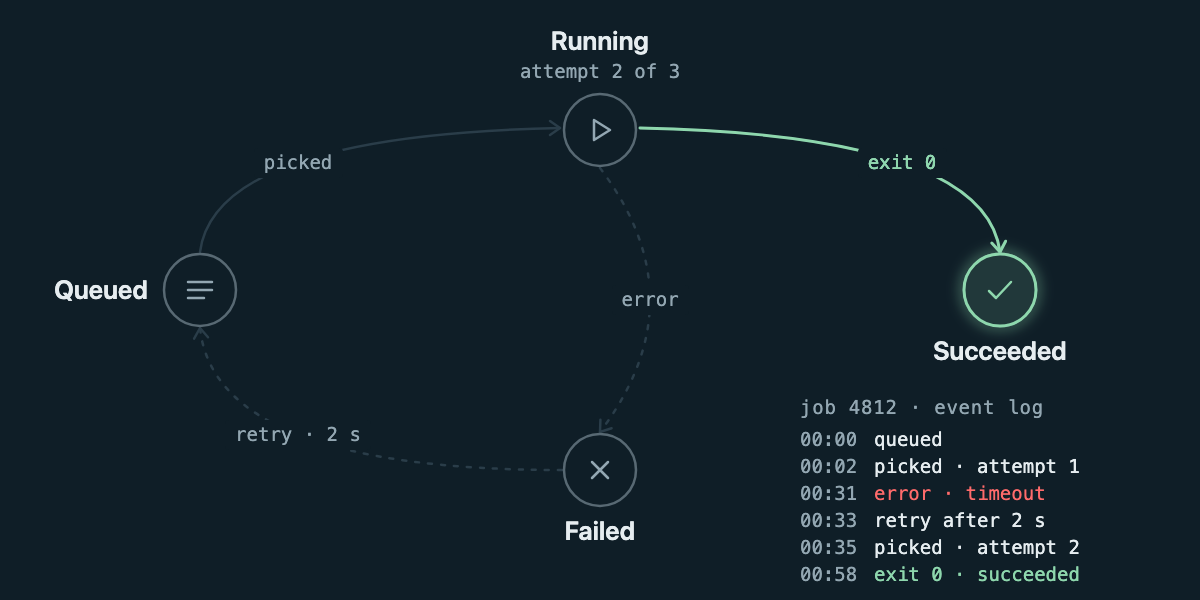
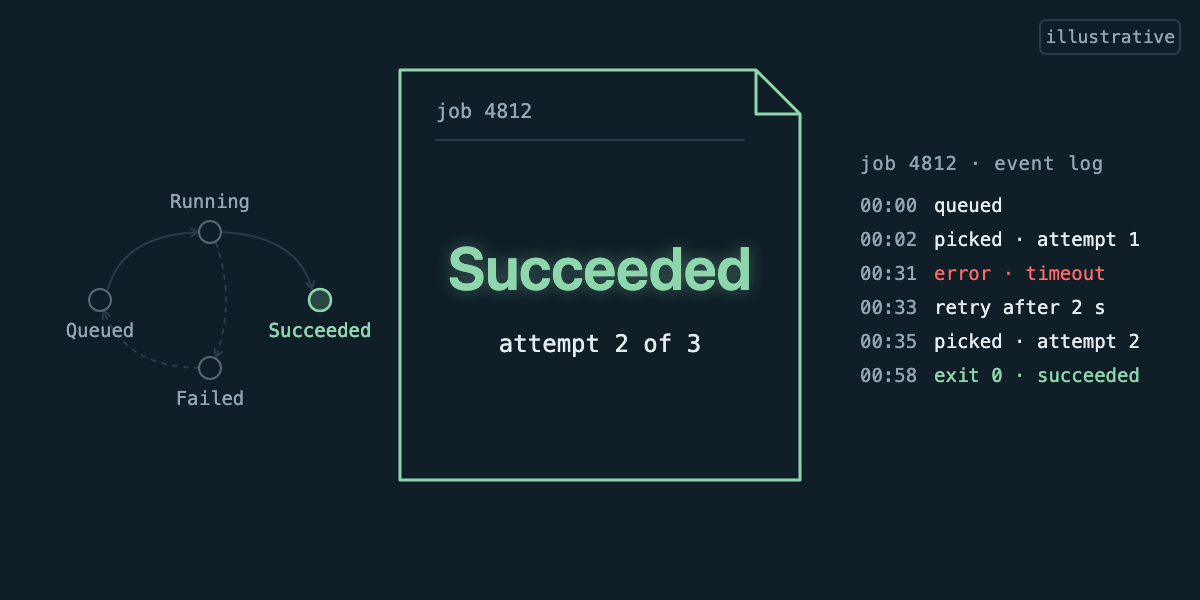
Pool: job-states reworked to switch (one job ticket changes state in place, no travelling token)

diff --git a/pool/job-states/job-states.html b/pool/job-states/job-states.html
@@ -1,9 +1,31 @@
-<!-- job-states: states archetype, hand-tuned from pool/job-states/spec.yaml (scaffold, then rebuilt for layout and story).
-  Plays once, 9.8 s pass: queued > running (attempt 1) > failed > retry > queued > running (attempt 2) > succeeded
-  | one token per hop, event log fills in | final state from 8.7 s
-  Names, numbers and times are illustrative examples. -->
+<!-- job-states (pool, verb switch, archetype states drawn as one job ticket, domain software). Hand-built; lean style, references/style.md.
+  Story: one job changes state: it is queued, picked, fails with a timeout, waits out a 2 s backoff
+  and succeeds on the second attempt. The job does not go anywhere; it changes condition in place.
+  Hero: one job ticket in the centre (a sheet with a folded corner, an id line, a status word and
+  an attempt counter). At each event its outline and status word switch: Queued (dashed, muted),
+  Running (solid, accent), Failed (solid, danger), Queued again for the backoff (dashed, with a thin
+  timer arc that draws on once next to "retry · 2 s"), Running with the counter stepping from
+  "attempt 1 of 3" to "attempt 2 of 3", Succeeded (solid, ok, the one glow on the word). The
+  failure (1.0 s) and the success (1.1 s) are the two slowest, clearest switches.
+  Support: a small state map on the left (the same four state names, thin arcs, no token) on which
+  only the current state is lit, 100 ms after the ticket; the event log on the right gains one line
+  100 to 150 ms after the change it records.
+  Verb: switch. Technique: stacked copies (outline + status word per state) cross-faded with
+  opacity, one full-pass track each; timer arc by stroke-dashoffset draw-on (pathLength 100,
+  linear because it tracks time); counter as two stacked texts cross-faded.
+  Once pass 9.8 s: set 0-0.5; picked 1.0-1.5; error 2.3-3.3; retry 4.0-4.5 and backoff timer (in 4.45-4.7, draws
+  4.6-5.5, out 5.5-5.65); picked again 5.8-6.3 and counter 6.35-6.7; exit 0 7.3-8.4; log lines after each; hold
+  8.8-9.8. Phases 0.7, 2.0, 3.8, 5.7, 7.1, 8.8.
+  Colours: accent = running (the active state); danger = failed; ok = succeeded (exit 0). No other.
+  Facts:
+  - State names Queued, Running, Failed, Succeeded; transitions picked, error, retry · 2 s, exit 0;
+    "attempt 1 of 3" / "attempt 2 of 3"; job 4812; log times 00:00, 00:02, 00:31, 00:33, 00:35,
+    00:58 and log texts: kept verbatim from the previous version of this entry, all ILLUSTRATIVE
+    (a generic job queue with retry and backoff), shown with the "illustrative" tag.
+  - 2 s backoff = 00:35 - 00:33: consistent with the log (arithmetic on the illustrative values).
+  - Timer arc length and timings: drawing, not data. -->
 <style>
-.anim-job-states {
+.anim-job-states{
   --anim-bg:       var(--anim-theme-bg,       #0F1E27);
   --anim-panel:    var(--anim-theme-panel,    #0D1820);
   --anim-line:     var(--anim-theme-line,     #2A3D49);
@@ -16,130 +38,150 @@
   --anim-danger:   var(--anim-theme-danger,   #FF6B6B);
   --anim-font:     var(--anim-theme-font,     system-ui, sans-serif);
   --anim-mono:     var(--anim-theme-mono,     ui-monospace, monospace);
-  display: block; width: 100%; height: 100%;
+  display:block;width:100%;height:100%
 }
-.anim-job-states svg{display:block;width:100%;height:100%}
-/* lean style (references/style.md): states are rings with a line glyph and the label outside,
-   transitions are thin arcs with the label sitting on the arc, the job is a glowing dot,
-   the event log is plain mono lines with no panel */
-.anim-job-states .job-states-c-acc{--job-states-k:var(--anim-accent)}
-.anim-job-states .job-states-c-ok{--job-states-k:var(--anim-ok)}
-.anim-job-states .job-states-c-bad{--job-states-k:var(--anim-danger)}
-.anim-job-states .job-states-lbl{font-family:var(--anim-font);font-size:26px;font-weight:600;fill:var(--anim-fg)}
-.anim-job-states .job-states-sub{font-family:var(--anim-mono);font-size:19px;fill:var(--anim-muted)}
-.anim-job-states .job-states-albl{font-family:var(--anim-mono);font-size:19px;fill:var(--anim-muted)}
-.anim-job-states .job-states-albl-on{fill:var(--job-states-k)}
-.anim-job-states .job-states-arc{fill:none;stroke:var(--anim-line);stroke-width:2.5;stroke-linecap:round}
-.anim-job-states .job-states-arc-evt{stroke-dasharray:4 9}
-.anim-job-states .job-states-arw{fill:none;stroke:var(--anim-line);stroke-width:2.5;stroke-linecap:round;stroke-linejoin:round}
-.anim-job-states .job-states-arc-on{fill:none;stroke:var(--job-states-k);stroke-width:3;stroke-linecap:round}
-.anim-job-states .job-states-arw-on{fill:none;stroke:var(--job-states-k);stroke-width:3;stroke-linecap:round;stroke-linejoin:round}
-.anim-job-states .job-states-ring{fill:var(--anim-bg);stroke:color-mix(in srgb,var(--anim-muted) 55%,var(--anim-bg));stroke-width:2.5}
-.anim-job-states .job-states-glyph{fill:none;stroke:var(--anim-muted);stroke-width:2.5;stroke-linecap:round;stroke-linejoin:round}
-.anim-job-states .job-states-ring-on{fill:color-mix(in srgb,var(--job-states-k) 14%,var(--anim-bg));stroke:var(--job-states-k);stroke-width:3}
-.anim-job-states .job-states-glyph-on{stroke:var(--job-states-k)}
-.anim-job-states .job-states-halo{fill:none;stroke:var(--job-states-k);stroke-width:12;stroke-opacity:.3;filter:blur(6px)}
-.anim-job-states .job-states-tok{fill:var(--job-states-k);stroke:var(--job-states-k);stroke-width:12;stroke-opacity:.3;offset-rotate:0deg}
+.anim-job-states svg{display:block;width:100%;height:100%;max-width:none}
+.anim-job-states .job-states-k-q{--job-states-k:var(--anim-fg)}
+.anim-job-states .job-states-k-r{--job-states-k:var(--anim-accent)}
+.anim-job-states .job-states-k-f{--job-states-k:var(--anim-danger)}
+.anim-job-states .job-states-k-ok{--job-states-k:var(--anim-ok)}
+/* the ticket */
+.anim-job-states .job-states-sheet{fill:none;stroke:var(--anim-ok);stroke-width:3px;stroke-dasharray:12 0;stroke-linejoin:round;stroke-linecap:round}
+.anim-job-states .job-states-rule{fill:none;stroke:var(--anim-line);stroke-width:2;stroke-linecap:round}
+.anim-job-states .job-states-id{font-family:var(--anim-mono);font-size:20px;fill:var(--anim-muted)}
+.anim-job-states .job-states-word{font-family:var(--anim-font);font-size:60px;font-weight:600;fill:var(--job-states-k)}
+.anim-job-states .job-states-glow{opacity:.35;filter:blur(8px)}
+.anim-job-states .job-states-att{font-family:var(--anim-mono);font-size:24px;fill:var(--anim-fg)}
+.anim-job-states .job-states-ttrack{fill:none;stroke:var(--anim-line);stroke-width:2.5}
+.anim-job-states .job-states-tarc{fill:none;stroke:var(--anim-fg);stroke-width:2.5;stroke-linecap:round;stroke-dasharray:100 120;stroke-dashoffset:0}
+.anim-job-states .job-states-sub{font-family:var(--anim-mono);font-size:20px;fill:var(--anim-muted)}
+/* the map */
+.anim-job-states .job-states-edge{fill:none;stroke:var(--anim-line);stroke-width:2;stroke-linecap:round;stroke-linejoin:round}
+.anim-job-states .job-states-dash{stroke-dasharray:4 7}
+.anim-job-states .job-states-ring{fill:var(--anim-bg);stroke:color-mix(in srgb,var(--anim-muted) 55%,var(--anim-bg));stroke-width:2}
+.anim-job-states .job-states-ring-on{fill:color-mix(in srgb,var(--job-states-k) 22%,var(--anim-bg));stroke:var(--job-states-k);stroke-width:2.5}
+.anim-job-states .job-states-mlbl{font-family:var(--anim-mono);font-size:19px;fill:var(--anim-muted)}
+.anim-job-states .job-states-mlbl-on{fill:var(--job-states-k)}
+/* the log */
 .anim-job-states .job-states-title{font-family:var(--anim-mono);font-size:19px;fill:var(--anim-muted);letter-spacing:.04em}
 .anim-job-states .job-states-ts{font-family:var(--anim-mono);font-size:19px;fill:var(--anim-muted)}
-.anim-job-states .job-states-ev{font-family:var(--anim-mono);font-size:19px}
-.anim-job-states .job-states-t-fg{fill:var(--anim-fg)}
+.anim-job-states .job-states-ev{font-family:var(--anim-mono);font-size:19px;fill:var(--anim-fg)}
 .anim-job-states .job-states-t-rd{fill:var(--anim-danger)}
 .anim-job-states .job-states-t-gn{fill:var(--anim-ok)}
-.anim-job-states .job-states-gap{fill:var(--anim-bg)}
-/* resting frame = end of the story: job succeeded on attempt 2, full event log visible.
-   Layers that belong only to earlier phases rest at opacity 0. */
-.anim-job-states .job-states-on-exit,.anim-job-states .job-states-hot-done,.anim-job-states .job-states-att2,.anim-job-states .job-states-log0,.anim-job-states .job-states-log1,.anim-job-states .job-states-log2,.anim-job-states .job-states-log3,.anim-job-states .job-states-log4,.anim-job-states .job-states-log5{opacity:1}
-.anim-job-states .job-states-tk-h1,.anim-job-states .job-states-tk-h2,.anim-job-states .job-states-tk-h3,.anim-job-states .job-states-tk-h4,.anim-job-states .job-states-tk-h5,.anim-job-states .job-states-on-picked,.anim-job-states .job-states-on-error,.anim-job-states .job-states-on-retry,.anim-job-states .job-states-hot-queued,.anim-job-states .job-states-hot-running,.anim-job-states .job-states-hot-failed,.anim-job-states .job-states-att1{opacity:0}
-@keyframes job-states-tk-h1{0%,7.8%{opacity:0;offset-distance:0%}9.18%{opacity:1;offset-distance:0%}18.37%{opacity:1;offset-distance:100%}19.75%,100%{opacity:0;offset-distance:100%}}
-@keyframes job-states-tk-h2{0%,29.84%{opacity:0;offset-distance:0%}31.22%{opacity:1;offset-distance:0%}40.41%{opacity:1;offset-distance:100%}41.79%,100%{opacity:0;offset-distance:100%}}
-@keyframes job-states-tk-h3{0%,46.37%{opacity:0;offset-distance:0%}47.75%{opacity:1;offset-distance:0%}56.94%{opacity:1;offset-distance:100%}58.32%,100%{opacity:0;offset-distance:100%}}
-@keyframes job-states-tk-h4{0%,59.23%{opacity:0;offset-distance:0%}60.61%{opacity:1;offset-distance:0%}69.79%{opacity:1;offset-distance:100%}71.17%,100%{opacity:0;offset-distance:100%}}
-@keyframes job-states-tk-h5{0%,75.77%{opacity:0;offset-distance:0%}77.14%{opacity:1;offset-distance:0%}86.32%{opacity:1;offset-distance:100%}87.7%,100%{opacity:0;offset-distance:100%}}
-@keyframes job-states-on-picked{0%,9.18%{opacity:0}11.48%,20.2%{opacity:1}21.7%,60.61%{opacity:0}62.9%,71.63%{opacity:1}73.12%,100%{opacity:0}}
-@keyframes job-states-on-error{0%,31.22%{opacity:0}33.52%,42.24%{opacity:1}43.73%,100%{opacity:0}}
-@keyframes job-states-on-retry{0%,47.75%{opacity:0}50.05%,58.77%{opacity:1}60.26%,100%{opacity:0}}
-@keyframes job-states-on-exit{0%,77.14%{opacity:0}79.44%,100%{opacity:1}}
-@keyframes job-states-hot-queued{0%,9.18%{opacity:1}10.68%,56.94%{opacity:0}59.23%,60.61%{opacity:1}62.1%,100%{opacity:0}}
-@keyframes job-states-hot-running{0%,18.37%{opacity:0}20.66%,31.22%{opacity:1}32.71%,69.79%{opacity:0}72.1%,77.14%{opacity:1}78.63%,100%{opacity:0}}
-@keyframes job-states-hot-failed{0%,40.41%{opacity:0}42.7%,47.75%{opacity:1}49.24%,100%{opacity:0}}
-@keyframes job-states-hot-done{0%,86.32%{opacity:0}88.63%,100%{opacity:1}}
-@keyframes job-states-att1{0%,69.79%{opacity:1}72.1%,100%{opacity:0}}
-@keyframes job-states-att2{0%,69.79%{opacity:0}72.55%,100%{opacity:1}}
-@keyframes job-states-log0{0%,1.84%{opacity:0}4.6%,100%{opacity:1}}
-@keyframes job-states-log1{0%,18.37%{opacity:0}21.13%,100%{opacity:1}}
-@keyframes job-states-log2{0%,40.41%{opacity:0}43.17%,100%{opacity:1}}
-@keyframes job-states-log3{0%,56.94%{opacity:0}59.7%,100%{opacity:1}}
-@keyframes job-states-log4{0%,69.79%{opacity:0}72.55%,100%{opacity:1}}
-@keyframes job-states-log5{0%,86.32%{opacity:0}89.08%,100%{opacity:1}}
-.visible .anim-job-states .job-states-tk-h1{animation:job-states-tk-h1 9.8s ease-in-out 1 forwards}
-.visible .anim-job-states .job-states-tk-h2{animation:job-states-tk-h2 9.8s ease-in-out 1 forwards}
-.visible .anim-job-states .job-states-tk-h3{animation:job-states-tk-h3 9.8s ease-in-out 1 forwards}
-.visible .anim-job-states .job-states-tk-h4{animation:job-states-tk-h4 9.8s ease-in-out 1 forwards}
-.visible .anim-job-states .job-states-tk-h5{animation:job-states-tk-h5 9.8s ease-in-out 1 forwards}
-.visible .anim-job-states .job-states-on-picked{animation:job-states-on-picked 9.8s ease-in-out 1 forwards}
-.visible .anim-job-states .job-states-on-error{animation:job-states-on-error 9.8s ease-in-out 1 forwards}
-.visible .anim-job-states .job-states-on-retry{animation:job-states-on-retry 9.8s ease-in-out 1 forwards}
-.visible .anim-job-states .job-states-on-exit{animation:job-states-on-exit 9.8s ease-in-out 1 forwards}
-.visible .anim-job-states .job-states-hot-queued{animation:job-states-hot-queued 9.8s ease-in-out 1 forwards}
-.visible .anim-job-states .job-states-hot-running{animation:job-states-hot-running 9.8s ease-in-out 1 forwards}
-.visible .anim-job-states .job-states-hot-failed{animation:job-states-hot-failed 9.8s ease-in-out 1 forwards}
-.visible .anim-job-states .job-states-hot-done{animation:job-states-hot-done 9.8s ease-in-out 1 forwards}
-.visible .anim-job-states .job-states-att1{animation:job-states-att1 9.8s ease-in-out 1 forwards}
-.visible .anim-job-states .job-states-att2{animation:job-states-att2 9.8s ease-in-out 1 forwards}
-.visible .anim-job-states .job-states-log0{animation:job-states-log0 9.8s ease-in-out 1 forwards}
-.visible .anim-job-states .job-states-log1{animation:job-states-log1 9.8s ease-in-out 1 forwards}
-.visible .anim-job-states .job-states-log2{animation:job-states-log2 9.8s ease-in-out 1 forwards}
-.visible .anim-job-states .job-states-log3{animation:job-states-log3 9.8s ease-in-out 1 forwards}
-.visible .anim-job-states .job-states-log4{animation:job-states-log4 9.8s ease-in-out 1 forwards}
-.visible .anim-job-states .job-states-log5{animation:job-states-log5 9.8s ease-in-out 1 forwards}
+.anim-job-states .job-states-tag{fill:none;stroke:var(--anim-line);stroke-width:2}
+.anim-job-states .job-states-tagt{font-family:var(--anim-mono);font-size:18px;fill:var(--anim-muted)}
+/* resting frame = the end: Succeeded on attempt 2, map on Succeeded, full log */
+.anim-job-states .job-states-c-q,.anim-job-states .job-states-c-r,.anim-job-states .job-states-c-f,
+.anim-job-states .job-states-m-q,.anim-job-states .job-states-m-r,.anim-job-states .job-states-m-f,
+.anim-job-states .job-states-tm,.anim-job-states .job-states-a1{opacity:0}
+
+/* ---- motion (9.8 s once pass), only when the slide is visible. percent = s / 9.8 ---- */
+/* cross-fades between states use ease-in-out; arrivals (scene, log lines) the enter curve */
+@keyframes job-states-scene{0%{opacity:0;animation-timing-function:cubic-bezier(0.16,1,0.3,1)}5.102%{opacity:1}100%{opacity:1}}
+@keyframes job-states-c-q{0%{opacity:1}10.204%{opacity:1;animation-timing-function:ease-in-out}12.755%{opacity:0}43.367%{opacity:0;animation-timing-function:ease-in-out}45.918%{opacity:1}59.184%{opacity:1;animation-timing-function:ease-in-out}61.735%{opacity:0}100%{opacity:0}}
+@keyframes job-states-c-r{0%{opacity:0}12.755%{opacity:0;animation-timing-function:ease-in-out}15.306%{opacity:1}23.469%{opacity:1;animation-timing-function:ease-in-out}27.551%{opacity:0}61.735%{opacity:0;animation-timing-function:ease-in-out}64.286%{opacity:1}74.49%{opacity:1;animation-timing-function:ease-in-out}78.571%{opacity:0}100%{opacity:0}}
+@keyframes job-states-c-f{0%{opacity:0}27.551%{opacity:0;animation-timing-function:ease-in-out}33.673%{opacity:1}40.816%{opacity:1;animation-timing-function:ease-in-out}43.367%{opacity:0}100%{opacity:0}}
+@keyframes job-states-c-ok{0%{opacity:0}78.571%{opacity:0;animation-timing-function:ease-in-out}85.714%{opacity:1}100%{opacity:1}}
+@keyframes job-states-m-q{0%{opacity:1}11.224%{opacity:1;animation-timing-function:ease-in-out}13.265%{opacity:0}43.878%{opacity:0;animation-timing-function:ease-in-out}45.918%{opacity:1}60.204%{opacity:1;animation-timing-function:ease-in-out}62.245%{opacity:0}100%{opacity:0}}
+@keyframes job-states-m-r{0%{opacity:0}13.265%{opacity:0;animation-timing-function:ease-in-out}15.306%{opacity:1}24.49%{opacity:1;animation-timing-function:ease-in-out}29.082%{opacity:0}62.245%{opacity:0;animation-timing-function:ease-in-out}64.286%{opacity:1}75.51%{opacity:1;animation-timing-function:ease-in-out}80.612%{opacity:0}100%{opacity:0}}
+@keyframes job-states-m-f{0%{opacity:0}29.082%{opacity:0;animation-timing-function:ease-in-out}33.673%{opacity:1}41.837%{opacity:1;animation-timing-function:ease-in-out}43.878%{opacity:0}100%{opacity:0}}
+@keyframes job-states-m-ok{0%{opacity:0}80.612%{opacity:0;animation-timing-function:ease-in-out}85.714%{opacity:1}100%{opacity:1}}
+@keyframes job-states-sheet{0%{stroke:var(--anim-muted);stroke-dasharray:12 10;stroke-width:2.5px}10.204%{stroke:var(--anim-muted);stroke-dasharray:12 10;stroke-width:2.5px;animation-timing-function:ease-in-out}15.306%{stroke:var(--anim-accent);stroke-dasharray:12 0;stroke-width:3px}23.469%{stroke:var(--anim-accent);stroke-dasharray:12 0;stroke-width:3px;animation-timing-function:ease-in-out}33.673%{stroke:var(--anim-danger);stroke-dasharray:12 0;stroke-width:3px}40.816%{stroke:var(--anim-danger);stroke-dasharray:12 0;stroke-width:3px;animation-timing-function:ease-in-out}45.918%{stroke:var(--anim-muted);stroke-dasharray:12 10;stroke-width:2.5px}59.184%{stroke:var(--anim-muted);stroke-dasharray:12 10;stroke-width:2.5px;animation-timing-function:ease-in-out}64.286%{stroke:var(--anim-accent);stroke-dasharray:12 0;stroke-width:3px}74.49%{stroke:var(--anim-accent);stroke-dasharray:12 0;stroke-width:3px;animation-timing-function:ease-in-out}85.714%{stroke:var(--anim-ok);stroke-dasharray:12 0;stroke-width:3px}100%{stroke:var(--anim-ok);stroke-dasharray:12 0;stroke-width:3px}}
+@keyframes job-states-tm{0%{opacity:0}45.408%{opacity:0;animation-timing-function:ease-in-out}47.959%{opacity:1}56.122%{opacity:1;animation-timing-function:ease-in-out}57.653%{opacity:0}100%{opacity:0}}
+@keyframes job-states-tarc{0%{stroke-dashoffset:101}46.939%{stroke-dashoffset:101;animation-timing-function:linear}56.122%{stroke-dashoffset:0}100%{stroke-dashoffset:0}}
+@keyframes job-states-a1{0%{opacity:1}64.796%{opacity:1;animation-timing-function:ease-in-out}66.837%{opacity:0}100%{opacity:0}}
+@keyframes job-states-a2{0%{opacity:0}65.816%{opacity:0;animation-timing-function:ease-in-out}68.367%{opacity:1}100%{opacity:1}}
+@keyframes job-states-log0{0%{opacity:0;transform:translateY(8px)}2.551%{opacity:0;transform:translateY(8px);animation-timing-function:cubic-bezier(0.16,1,0.3,1)}5.102%{opacity:1;transform:translateY(0)}100%{opacity:1;transform:translateY(0)}}
+@keyframes job-states-log1{0%{opacity:0;transform:translateY(8px)}16.327%{opacity:0;transform:translateY(8px);animation-timing-function:cubic-bezier(0.16,1,0.3,1)}18.878%{opacity:1;transform:translateY(0)}100%{opacity:1;transform:translateY(0)}}
+@keyframes job-states-log2{0%{opacity:0;transform:translateY(8px)}34.898%{opacity:0;transform:translateY(8px);animation-timing-function:cubic-bezier(0.16,1,0.3,1)}37.449%{opacity:1;transform:translateY(0)}100%{opacity:1;transform:translateY(0)}}
+@keyframes job-states-log3{0%{opacity:0;transform:translateY(8px)}46.939%{opacity:0;transform:translateY(8px);animation-timing-function:cubic-bezier(0.16,1,0.3,1)}49.49%{opacity:1;transform:translateY(0)}100%{opacity:1;transform:translateY(0)}}
+@keyframes job-states-log4{0%{opacity:0;transform:translateY(8px)}69.388%{opacity:0;transform:translateY(8px);animation-timing-function:cubic-bezier(0.16,1,0.3,1)}71.939%{opacity:1;transform:translateY(0)}100%{opacity:1;transform:translateY(0)}}
+@keyframes job-states-log5{0%{opacity:0;transform:translateY(8px)}86.735%{opacity:0;transform:translateY(8px);animation-timing-function:cubic-bezier(0.16,1,0.3,1)}89.286%{opacity:1;transform:translateY(0)}100%{opacity:1;transform:translateY(0)}}
+
+.visible .anim-job-states .job-states-scene{animation:job-states-scene 9.8s linear 1 both}
+.visible .anim-job-states .job-states-sheet{animation:job-states-sheet 9.8s linear 1 both}
+.visible .anim-job-states .job-states-c-q{animation:job-states-c-q 9.8s linear 1 both}
+.visible .anim-job-states .job-states-c-r{animation:job-states-c-r 9.8s linear 1 both}
+.visible .anim-job-states .job-states-c-f{animation:job-states-c-f 9.8s linear 1 both}
+.visible .anim-job-states .job-states-c-ok{animation:job-states-c-ok 9.8s linear 1 both}
+.visible .anim-job-states .job-states-m-q{animation:job-states-m-q 9.8s linear 1 both}
+.visible .anim-job-states .job-states-m-r{animation:job-states-m-r 9.8s linear 1 both}
+.visible .anim-job-states .job-states-m-f{animation:job-states-m-f 9.8s linear 1 both}
+.visible .anim-job-states .job-states-m-ok{animation:job-states-m-ok 9.8s linear 1 both}
+.visible .anim-job-states .job-states-tm{animation:job-states-tm 9.8s linear 1 both}
+.visible .anim-job-states .job-states-tarc{animation:job-states-tarc 9.8s linear 1 both}
+.visible .anim-job-states .job-states-a1{animation:job-states-a1 9.8s linear 1 both}
+.visible .anim-job-states .job-states-a2{animation:job-states-a2 9.8s linear 1 both}
+.visible .anim-job-states .job-states-log0{animation:job-states-log0 9.8s linear 1 both}
+.visible .anim-job-states .job-states-log1{animation:job-states-log1 9.8s linear 1 both}
+.visible .anim-job-states .job-states-log2{animation:job-states-log2 9.8s linear 1 both}
+.visible .anim-job-states .job-states-log3{animation:job-states-log3 9.8s linear 1 both}
+.visible .anim-job-states .job-states-log4{animation:job-states-log4 9.8s linear 1 both}
+.visible .anim-job-states .job-states-log5{animation:job-states-log5 9.8s linear 1 both}
 
 @media (prefers-reduced-motion: reduce) { .anim-job-states * { animation: none !important; } }
 </style>
-<div class="anim anim-job-states" data-anim="job-states" data-anim-cycle="9.8" data-anim-phases="0.7,2.9,4.5,5.8,7.4,8.8" data-anim-control="once">
-<svg viewBox="0 0 1200 600" width="100%" height="100%" xmlns="http://www.w3.org/2000/svg" role="img" aria-label="Job lifecycle: a queued job is picked by a worker, fails with a timeout, is retried after a 2 second backoff and succeeds on the second attempt, with each transition written to an event log.">
-<path class="job-states-arc" d="M200 252 Q215 135 560 128"/><path class="job-states-arw" d="M550 121 L560 128 L550 135"/>
-<path class="job-states-arc" d="M640 128 Q985 135 1000 252"/><path class="job-states-arw" d="M991.8 243 L1000 252 L1005.6 241.2"/>
-<path class="job-states-arc job-states-arc-evt" d="M600 168 Q700 300 600 432"/><path class="job-states-arw" d="M600.4 419.8 L600 432 L611.6 428.2"/>
-<path class="job-states-arc job-states-arc-evt" d="M562 470 Q215 470 200 328"/><path class="job-states-arw" d="M208 337.2 L200 328 L194.1 338.6"/>
-<g class="job-states-on-picked job-states-c-acc"><path class="job-states-arc-on" d="M200 252 Q215 135 560 128"/><path class="job-states-arw-on" d="M550 121 L560 128 L550 135"/></g>
-<g class="job-states-on-exit job-states-c-ok"><path class="job-states-arc-on" d="M640 128 Q985 135 1000 252"/><path class="job-states-arw-on" d="M991.8 243 L1000 252 L1005.6 241.2"/></g>
-<g class="job-states-on-error job-states-c-bad"><path class="job-states-arc-on" d="M600 168 Q700 300 600 432"/><path class="job-states-arw-on" d="M600.4 419.8 L600 432 L611.6 428.2"/></g>
-<g class="job-states-on-retry job-states-c-acc"><path class="job-states-arc-on" d="M562 470 Q215 470 200 328"/><path class="job-states-arw-on" d="M208 337.2 L200 328 L194.1 338.6"/></g>
-<rect class="job-states-gap" x="254" y="148" width="89" height="30" rx="4"/><rect class="job-states-gap" x="858" y="148" width="89" height="30" rx="4"/><rect class="job-states-gap" x="612" y="285" width="77" height="30" rx="4"/><rect class="job-states-gap" x="225" y="420" width="146" height="30" rx="4"/>
-<text class="job-states-albl" x="298" y="169" text-anchor="middle">picked</text>
-<text class="job-states-albl" x="902" y="169" text-anchor="middle">exit 0</text>
-<text class="job-states-albl" x="650" y="306" text-anchor="middle">error</text>
-<text class="job-states-albl" x="298" y="441" text-anchor="middle">retry · 2 s</text>
-<text class="job-states-albl job-states-albl-on job-states-on-picked job-states-c-acc" x="298" y="169" text-anchor="middle">picked</text>
-<text class="job-states-albl job-states-albl-on job-states-on-exit job-states-c-ok" x="902" y="169" text-anchor="middle">exit 0</text>
-<text class="job-states-albl job-states-albl-on job-states-on-error job-states-c-bad" x="650" y="306" text-anchor="middle">error</text>
-<text class="job-states-albl job-states-albl-on job-states-on-retry job-states-c-acc" x="298" y="441" text-anchor="middle">retry · 2 s</text>
-<circle class="job-states-ring" cx="200" cy="290" r="36"/><path class="job-states-glyph" transform="translate(200 290)" d="M-12 -8 H12 M-12 0 H12 M-12 8 H4"/>
-<g class="job-states-hot-queued job-states-c-acc"><circle class="job-states-halo" cx="200" cy="290" r="36"/><circle class="job-states-ring-on" cx="200" cy="290" r="36"/><path class="job-states-glyph job-states-glyph-on" transform="translate(200 290)" d="M-12 -8 H12 M-12 0 H12 M-12 8 H4"/></g>
-<text class="job-states-lbl" x="148" y="299" text-anchor="end">Queued</text>
-<circle class="job-states-ring" cx="600" cy="130" r="36"/><path class="job-states-glyph" transform="translate(600 130)" d="M-6 -10 L10 0 L-6 10 Z"/>
-<g class="job-states-hot-running job-states-c-acc"><circle class="job-states-halo" cx="600" cy="130" r="36"/><circle class="job-states-ring-on" cx="600" cy="130" r="36"/><path class="job-states-glyph job-states-glyph-on" transform="translate(600 130)" d="M-6 -10 L10 0 L-6 10 Z"/></g>
-<text class="job-states-lbl" x="600" y="50" text-anchor="middle">Running</text>
-<text class="job-states-sub job-states-att1" x="600" y="78" text-anchor="middle">attempt 1 of 3</text>
-<text class="job-states-sub job-states-att2" x="600" y="78" text-anchor="middle">attempt 2 of 3</text>
-<circle class="job-states-ring" cx="1000" cy="290" r="36"/><path class="job-states-glyph" transform="translate(1000 290)" d="M-11 1 L-4 8 L11 -8"/>
-<g class="job-states-hot-done job-states-c-ok"><circle class="job-states-halo" cx="1000" cy="290" r="36"/><circle class="job-states-ring-on" cx="1000" cy="290" r="36"/><path class="job-states-glyph job-states-glyph-on" transform="translate(1000 290)" d="M-11 1 L-4 8 L11 -8"/></g>
-<text class="job-states-lbl" x="1000" y="360" text-anchor="middle">Succeeded</text>
-<circle class="job-states-ring" cx="600" cy="470" r="36"/><path class="job-states-glyph" transform="translate(600 470)" d="M-8 -8 L8 8 M8 -8 L-8 8"/>
-<g class="job-states-hot-failed job-states-c-bad"><circle class="job-states-halo" cx="600" cy="470" r="36"/><circle class="job-states-ring-on" cx="600" cy="470" r="36"/><path class="job-states-glyph job-states-glyph-on" transform="translate(600 470)" d="M-8 -8 L8 8 M8 -8 L-8 8"/></g>
-<text class="job-states-lbl" x="600" y="540" text-anchor="middle">Failed</text>
-<circle class="job-states-tok job-states-c-acc job-states-tk-h1" r="8" style="offset-path:path('M200 252 Q215 135 560 128')"/>
-<circle class="job-states-tok job-states-c-bad job-states-tk-h2" r="8" style="offset-path:path('M600 168 Q700 300 600 432')"/>
-<circle class="job-states-tok job-states-c-acc job-states-tk-h3" r="8" style="offset-path:path('M562 470 Q215 470 200 328')"/>
-<circle class="job-states-tok job-states-c-acc job-states-tk-h4" r="8" style="offset-path:path('M200 252 Q215 135 560 128')"/>
-<circle class="job-states-tok job-states-c-ok job-states-tk-h5" r="8" style="offset-path:path('M640 128 Q985 135 1000 252')"/>
-<text class="job-states-title" x="800" y="414">job 4812 · event log</text>
-<g class="job-states-log0"><text class="job-states-ts" x="800" y="446">00:00</text><text class="job-states-ev job-states-t-fg" x="874" y="446">queued</text></g>
-<g class="job-states-log1"><text class="job-states-ts" x="800" y="473">00:02</text><text class="job-states-ev job-states-t-fg" x="874" y="473">picked · attempt 1</text></g>
-<g class="job-states-log2"><text class="job-states-ts" x="800" y="500">00:31</text><text class="job-states-ev job-states-t-rd" x="874" y="500">error · timeout</text></g>
-<g class="job-states-log3"><text class="job-states-ts" x="800" y="527">00:33</text><text class="job-states-ev job-states-t-fg" x="874" y="527">retry after 2 s</text></g>
-<g class="job-states-log4"><text class="job-states-ts" x="800" y="554">00:35</text><text class="job-states-ev job-states-t-fg" x="874" y="554">picked · attempt 2</text></g>
-<g class="job-states-log5"><text class="job-states-ts" x="800" y="581">00:58</text><text class="job-states-ev job-states-t-gn" x="874" y="581">exit 0 · succeeded</text></g>
+<div class="anim anim-job-states" data-anim="job-states" data-anim-cycle="9.8" data-anim-control="once" data-anim-phases="0.7,2,3.8,5.7,7.1,8.8" data-anim-verb="switch">
+<svg viewBox="0 0 1200 600" width="100%" height="100%" xmlns="http://www.w3.org/2000/svg" role="img" aria-label="Job lifecycle: one job ticket changes state in place. It is queued, picked by a worker and running, fails with a timeout, waits out a 2 second backoff while queued again, is picked for attempt 2 of 3 and succeeds with exit 0. A small state map lights the current state and an event log records each transition.">
+<g class="job-states-scene">
+  <rect class="job-states-tag" x="1040" y="20" width="140" height="34" rx="6"/>
+  <text class="job-states-tagt" x="1110" y="43" text-anchor="middle">illustrative</text>
+
+  <!-- state map (quiet, left): same states as the ring diagram, no token -->
+  <path class="job-states-edge" d="M108 289 Q122 236 198 232"/><path class="job-states-edge" d="M190.9 228.4 L198 232 L191.3 236.4"/>
+  <path class="job-states-edge" d="M222 232 Q298 236 312 289"/><path class="job-states-edge" d="M314.1 281.3 L312 289 L306.4 283.3"/>
+  <path class="job-states-edge job-states-dash" d="M216 243 Q236 300 216 357"/><path class="job-states-edge" d="M222.1 351.8 L216 357 L214.5 349.1"/>
+  <path class="job-states-edge job-states-dash" d="M199 368 Q124 366 104 311"/><path class="job-states-edge" d="M102.6 318.9 L104 311 L110.1 316.1"/>
+  <circle class="job-states-ring" cx="100" cy="300" r="11"/>
+  <circle class="job-states-ring" cx="210" cy="232" r="11"/>
+  <circle class="job-states-ring" cx="320" cy="300" r="11"/>
+  <circle class="job-states-ring" cx="210" cy="368" r="11"/>
+  <text class="job-states-mlbl" x="100" y="337" text-anchor="middle">Queued</text>
+  <text class="job-states-mlbl" x="210" y="208" text-anchor="middle">Running</text>
+  <text class="job-states-mlbl" x="320" y="337" text-anchor="middle">Succeeded</text>
+  <text class="job-states-mlbl" x="210" y="405" text-anchor="middle">Failed</text>
+  <g>
+    <g class="job-states-m-q job-states-k-q"><circle class="job-states-ring-on" cx="100" cy="300" r="11"/><text class="job-states-mlbl job-states-mlbl-on" x="100" y="337" text-anchor="middle">Queued</text></g>
+    <g class="job-states-m-r job-states-k-r"><circle class="job-states-ring-on" cx="210" cy="232" r="11"/><text class="job-states-mlbl job-states-mlbl-on" x="210" y="208" text-anchor="middle">Running</text></g>
+    <g class="job-states-m-f job-states-k-f"><circle class="job-states-ring-on" cx="210" cy="368" r="11"/><text class="job-states-mlbl job-states-mlbl-on" x="210" y="405" text-anchor="middle">Failed</text></g>
+    <g class="job-states-m-ok job-states-k-ok"><circle class="job-states-ring-on" cx="320" cy="300" r="11"/><text class="job-states-mlbl job-states-mlbl-on" x="320" y="337" text-anchor="middle">Succeeded</text></g>
+  </g>
+
+  <!-- the job ticket (hero): static id line, stacked state copies -->
+  <text class="job-states-id" x="436" y="118">job 4812</text>
+  <path class="job-states-rule" d="M436 140 H744"/>
+  <path class="job-states-sheet" d="M400 70 H756 L800 114 V480 H400 Z M756 70 V114 H800"/>
+  <g>
+    <g class="job-states-c-q job-states-k-q">
+      <text class="job-states-word" x="600" y="290" text-anchor="middle">Queued</text>
+    </g>
+    <g class="job-states-c-r job-states-k-r">
+      <text class="job-states-word" x="600" y="290" text-anchor="middle">Running</text>
+    </g>
+    <g class="job-states-c-f job-states-k-f">
+      <text class="job-states-word" x="600" y="290" text-anchor="middle">Failed</text>
+    </g>
+    <g class="job-states-c-ok job-states-k-ok">
+      <text class="job-states-word job-states-glow" x="600" y="290" text-anchor="middle">Succeeded</text>
+      <text class="job-states-word" x="600" y="290" text-anchor="middle">Succeeded</text>
+    </g>
+    <text class="job-states-att job-states-a1" x="600" y="352" text-anchor="middle">attempt 1 of 3</text>
+    <text class="job-states-att job-states-a2" x="600" y="352" text-anchor="middle">attempt 2 of 3</text>
+    <g class="job-states-tm">
+      <circle class="job-states-ttrack" cx="540" cy="420" r="16"/>
+      <path class="job-states-tarc" pathLength="100" d="M540 404 A16 16 0 1 1 539.99 404"/>
+      <text class="job-states-sub" x="570" y="427">retry · 2 s</text>
+    </g>
+  </g>
+
+  <!-- event log (right) -->
+  <text class="job-states-title" x="860" y="170">job 4812 · event log</text>
+</g>
+<g class="job-states-log0"><text class="job-states-ts" x="860" y="212">00:00</text><text class="job-states-ev" x="934" y="212">queued</text></g>
+<g class="job-states-log1"><text class="job-states-ts" x="860" y="246">00:02</text><text class="job-states-ev" x="934" y="246">picked · attempt 1</text></g>
+<g class="job-states-log2"><text class="job-states-ts" x="860" y="280">00:31</text><text class="job-states-ev job-states-t-rd" x="934" y="280">error · timeout</text></g>
+<g class="job-states-log3"><text class="job-states-ts" x="860" y="314">00:33</text><text class="job-states-ev" x="934" y="314">retry after 2 s</text></g>
+<g class="job-states-log4"><text class="job-states-ts" x="860" y="348">00:35</text><text class="job-states-ev" x="934" y="348">picked · attempt 2</text></g>
+<g class="job-states-log5"><text class="job-states-ts" x="860" y="382">00:58</text><text class="job-states-ev job-states-t-gn" x="934" y="382">exit 0 · succeeded</text></g>
 </svg>
 </div>

diff --git a/pool/README.md b/pool/README.md
@@ -35,7 +35,7 @@ after scaffolding, so the spec reproduces the structure and timing, not every de
 | ![](service-deps/thumb.png) | `service-deps` | nest | graph | graph | software | 1680×600 | 9.4 s | A service graph builds rank by rank, then a third-party outage spreads only to Payments and a boundary closes around the two: the blast radius. |
 | ![](db-failover/thumb.png) | `db-failover` | travel | graph | graph | software | 1000×560 | 9.4 s | Requests reach the primary database, it fails, health checks propose promoting the replica, on-call approves and traffic is rerouted. |
 | ![](roadmap/thumb.png) | `roadmap` | reveal | timeline | axis | product | 1680×440 | 9.9 s | Three milestones ship one after another, mobile apps are in progress and platform v2 is planned. |
-| ![](job-states/thumb.png) | `job-states` | ? | states | ring | software | 1200×600 | 9.8 s | A job is picked, fails with a timeout, retries after a backoff and succeeds on the second attempt, with an event log filling in. |
+| ![](job-states/thumb.png) | `job-states` | switch | states | ring | software | 1200×600 | 9.8 s | One job changes state in place, from queued to running to failed, waits out a 2 s backoff, and succeeds on the second attempt, while a small state map lights the current state and the event log fills in. |
 | ![](cache-compare/thumb.png) | `cache-compare` | race | compare | columns | software | 1680×600 | 10 s | The same four reads raced on one clock without and with a cache; 180 ms database reads keep growing while 8 ms hits stop almost at once, and database load climbs to 96 % on one side but stays at 24 % on the other. |
 | ![](rag-stack/thumb.png) | `rag-stack` | travel | layers | bands | ai | 1200×640 | 9.8 s | One question travels down a four-layer RAG stack, matching chunks come back up, the LLM drafts an answer and it returns with citations. |
 | ![](cloud-spend/thumb.png) | `cloud-spend` | trace | chart | line-chart | finance | 1680×600 | 9.5 s | A line chart draws on as monthly spend climbs past a budget line, then bends back under it after an autoscaling event. |
